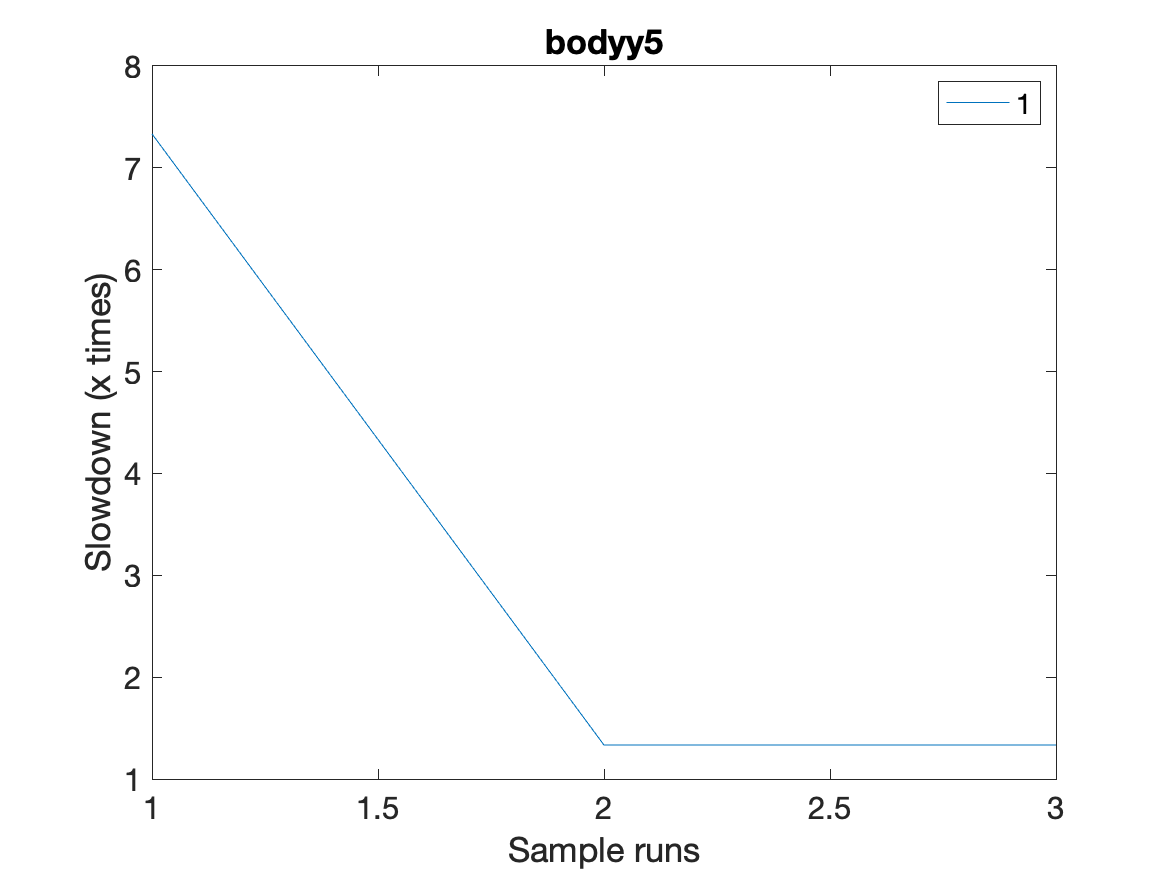
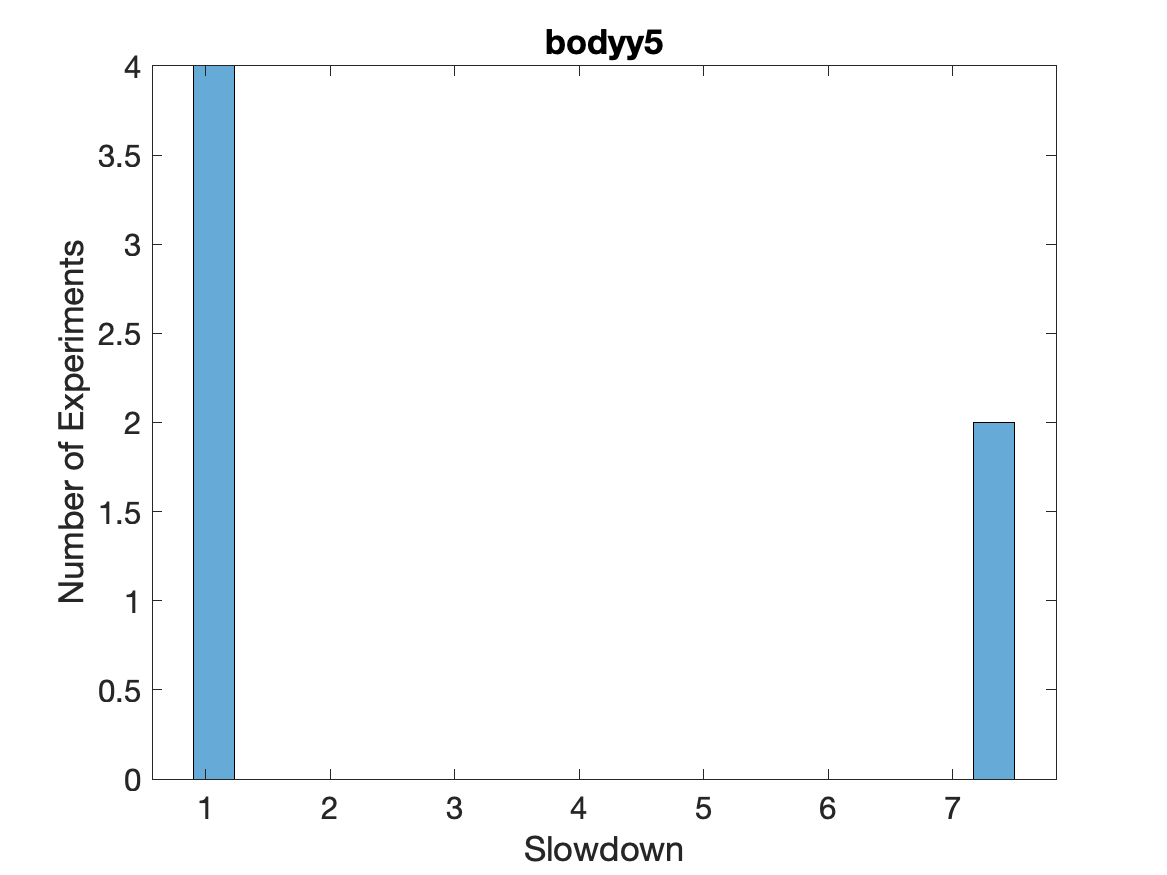
Added histograms for impact graphs

diff --git a/Step6_impact.m b/Step6_impact.m
@@ -11,7 +11,7 @@ color = 'b';
 %    'Trefethen_20000', 'vanbody','wathen100'};
 % matrices = {'bcsstk18'};
 % matrices = {'bcsstk18', 'thermal1', 'ct20stif', 'cbuckle'}; 
-matrices = {'cbuckle'};
+matrices = {'bcsstk18', 'bodyy5', 'cbuckle', 'G2_circuit'};
 num_matrices = length(matrices);
 
 % bitflip_iter = 110;
@@ -33,80 +33,80 @@ for m = 1:num_matrices
     load(new_error, 'injections');
 
 
-    for i = injections
-        bitflip_iter = i;
+    % for i = injections
+        bitflip_iter = 1;
         result_filename = ['./data/', matrixname, '/Step3_', matrixname, '_iter=', num2str(bitflip_iter), '.dat'];
         result = dlmread(result_filename);
         noerror_converges = result(:, 7);
         converges = result(:, 8);
         converge_ratios = converges./noerror_converges;
 
-%         %% plot unsorted figure
-%         figure;
-%         plot(converge_ratios, 'DisplayName',num2str(i));
-%         title(matrixname, 'interpreter', 'none');
-%         %set(gca,'xscale','log');
-%         xlabel('Sample runs');
-%         ylabel('Slowdown (x times)');
-%         legend();
-%         set(gca,'FontSize',15);
-%         hold off;
-%         comments = 'impact_unsorted';
-%         figure_filename = ['./figures/', matrixname, '/', comments, '_', matrixname, '_bitflip_iter=', num2str(bitflip_iter)];
-%         print(figure_filename, '-dpng');
-%         close all;
+        %% plot unsorted figure
+        figure;
+        histogram(converge_ratios, 'NumBins', 20, 'DisplayName',num2str(bitflip_iter));
+        title(matrixname, 'interpreter', 'none');
+        %set(gca,'xscale','log');
+        xlabel('Slowdown');
+        ylabel('Number of Experiments');
+        % legend();
+        set(gca,'FontSize',15);
+        hold off;
+        comments = 'impact_unsorted';
+        figure_filename = ['./figures/', matrixname, '/', comments, '_', matrixname, '_bitflip_iter=', num2str(bitflip_iter)];
+        print(figure_filename, '-dpng');
+        close all;
 
 
-%         %% plot sorted figure
-%         figure;
-%         % hold on;
-%         plot(sort(converge_ratios), 'DisplayName', num2str(i));
-%         title(matrixname, 'interpreter', 'none');
-%         %set(gca,'xscale','log');
-%         xlabel('Sample runs');
-%         ylabel('Slowdown (x times)');
-%         legend();
-%         set(gca,'FontSize',15);
-%         hold off;
-%         comments = 'impact_sorted';
-%         figure_filename = ['./figures/', matrixname, '/', comments, '_', matrixname, '_bitflip_iter=', num2str(bitflip_iter)];
-%         print(figure_filename, '-dpng');
-    end 
+        % %% plot sorted figure
+        % figure;
+        % % hold on;
+        % histograms(sort(converge_ratios), 'DisplayName', num2str(i));
+        % title(matrixname, 'interpreter', 'none');
+        % %set(gca,'xscale','log');
+        % xlabel('Sample runs');
+        % ylabel('Slowdown (x times)');
+        % legend();
+        % set(gca,'FontSize',15);
+        % hold off;
+        % comments = 'impact_sorted';
+        % figure_filename = ['./figures/', matrixname, '/', comments, '_', matrixname, '_bitflip_iter=', num2str(bitflip_iter)];
+        % print(figure_filename, '-dpng');
+    % end 
     
 
     %% plot all iterations
 
-    figure;
-    disp_names = {'$2$', '$0.25I_o$', '$0.5I_o$', '$0.75I_o$', '$I_o$'}; 
-    colors = {'r'; '#77AC30'; 'b'; '#EDB120'; 'm'};
-    index = 0;
-    for i = injections
-        index=index+1;
-        bitflip_iter = i;
-        result_filename = ['./data/', matrixname, '/Step3_', matrixname, '_iter=', num2str(bitflip_iter), '.dat'];
-        %% load experimental data
-        result = dlmread(result_filename);
-        noerror_converges = result(:, 7);
-        converges = result(:, 8);
-        converge_ratios = converges./noerror_converges;
-        %colororder(['r'; 'g'; 'b'; 'k'; 'm']); 
-        % plot sorted
-        hold on;
-        plot(sort(converge_ratios), 'DisplayName', char(disp_names(index)), 'LineWidth', 2, 'Color', char(colors(index)));
-        %title(matrixname, 'interpreter', 'none');
-        set(gca,'yscale','log');
-        xlabel('Runs');
-        ylabel('Slowdown');
-        legend(Location="northwest", Interpreter="latex");
-        set(gca,'FontSize',14);
-        % hold off;
-        comments = 'impact_sorted';
-        figure_filename = ['./figures/', matrixname, '/', comments, '_', matrixname];
-        print(figure_filename, '-dpng');
-
-    end
-
-    hold off; 
+    % figure;
+    % disp_names = {'$2$', '$0.25I_o$', '$0.5I_o$', '$0.75I_o$', '$I_o$'}; 
+    % colors = {'r'; '#77AC30'; 'b'; '#EDB120'; 'm'};
+    % index = 0;
+    % for i = injections
+    %     index=index+1;
+    %     bitflip_iter = i;
+    %     result_filename = ['./data/', matrixname, '/Step3_', matrixname, '_iter=', num2str(bitflip_iter), '.dat'];
+    %     %% load experimental data
+    %     result = dlmread(result_filename);
+    %     noerror_converges = result(:, 7);
+    %     converges = result(:, 8);
+    %     converge_ratios = converges./noerror_converges;
+    %     %colororder(['r'; 'g'; 'b'; 'k'; 'm']); 
+    %     % plot sorted
+    %     hold on;
+    %     plot(sort(converge_ratios), 'DisplayName', char(disp_names(index)), 'LineWidth', 2, 'Color', char(colors(index)));
+    %     %title(matrixname, 'interpreter', 'none');
+    %     set(gca,'yscale','log');
+    %     xlabel('Runs');
+    %     ylabel('Slowdown');
+    %     legend(Location="northwest", Interpreter="latex");
+    %     set(gca,'FontSize',14);
+    %     % hold off;
+    %     comments = 'impact_sorted';
+    %     figure_filename = ['./figures/', matrixname, '/', comments, '_', matrixname];
+    %     print(figure_filename, '-dpng');
+    % 
+    % end
+    % 
+    % hold off; 
 
 %     figure;
 %     % plot unsorted
@@ -140,5 +140,6 @@ for m = 1:num_matrices
 %     end
 %     hold off;
 % 
-%     close all;
+    close all;
+    end
 end
